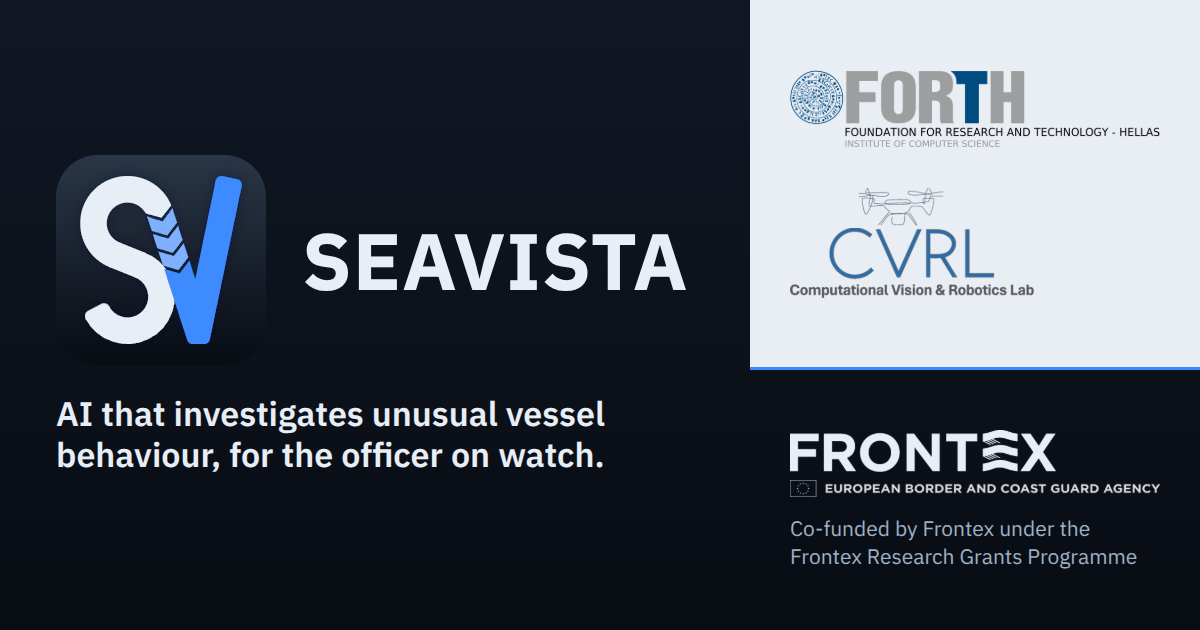
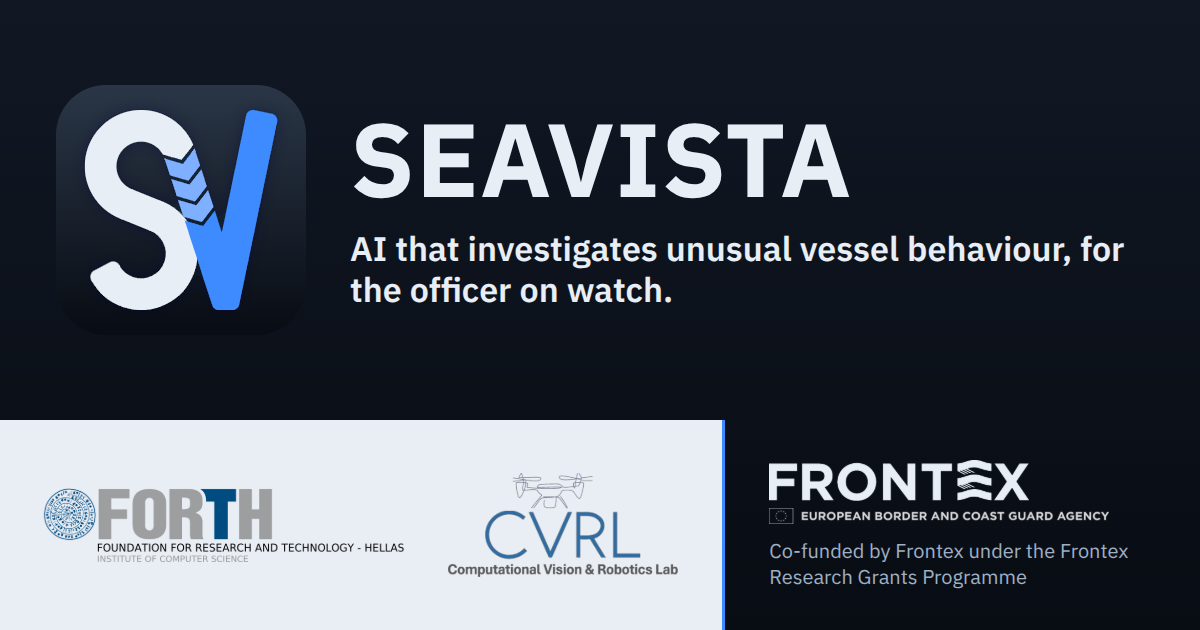
The preview card, the marks in a row along the foot

diff --git a/index.html b/index.html
@@ -15,7 +15,7 @@
 <meta property="og:image" content="https://seavista-r-d.github.io/og-card.png">
 <meta property="og:image:width" content="1200">
 <meta property="og:image:height" content="630">
-<meta property="og:image:alt" content="The SEAVISTA mark beside the name and the line: AI that investigates unusual vessel behaviour, for the officer on watch. FORTH-ICS and CVRL in a column on the right; co-funded by Frontex under the Frontex Research Grants Programme.">
+<meta property="og:image:alt" content="The SEAVISTA mark beside the name and the line: AI that investigates unusual vessel behaviour, for the officer on watch. FORTH-ICS and CVRL along the foot; co-funded by Frontex under the Frontex Research Grants Programme.">
 <meta name="twitter:card" content="summary_large_image">
 <link rel="stylesheet" href="https://fonts.googleapis.com/css2?family=IBM+Plex+Mono:wght@400;500&family=IBM+Plex+Sans:wght@400;600;700&display=swap">
 <style>
